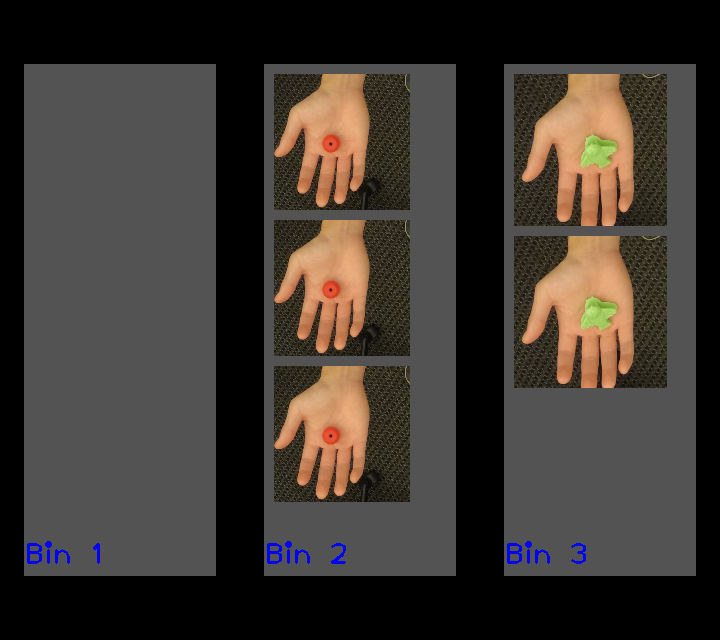
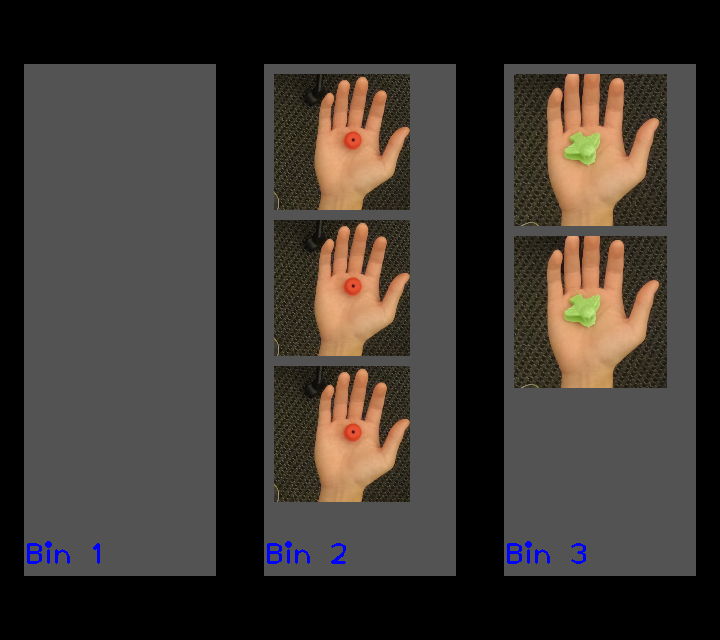
rotate hand item images 180

Changed region(s): [[0.3667, 0.0938, 0.5806, 0.7812], [0.7028, 0.0938, 0.9472, 0.625]]

diff --git a/scripts/draw_bin_output.py b/scripts/draw_bin_output.py
@@ -86,9 +86,9 @@ def create_drawing(color_image_mapping, bin_color_mapping, width = 720, height =
 if __name__ == '__main__':
     r, g, b = [cv2.imread(os.path.join(os.getcwd(), "pick_items", "new_photos", "normal_lens", x + ".JPG")) for x in ["red", "lightgreen", "darkblue"]]
     
-    r = utils.extract_hand_region_from_frame(r)
-    g = utils.extract_hand_region_from_frame(g)
-    b = utils.extract_hand_region_from_frame(b)
+    r = cv2.rotate(utils.extract_hand_region_from_frame(r), cv2.ROTATE_180)
+    g = cv2.rotate(utils.extract_hand_region_from_frame(g), cv2.ROTATE_180)
+    b = cv2.rotate(utils.extract_hand_region_from_frame(b), cv2.ROTATE_180)
 
     # utils.show_frame(r)
     
